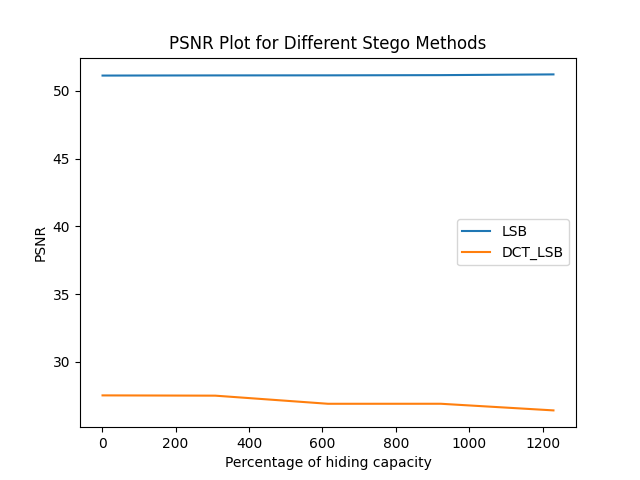
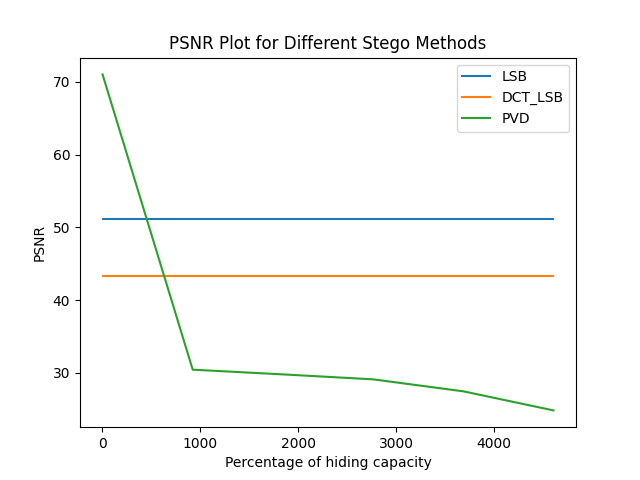
new images and somewhat working pvd

diff --git a/pvd.py b/pvd.py
@@ -7,43 +7,46 @@ from typing import Tuple, Union
 
 DctArray = npt.NDArray[np.int32]
 
+
 def _hide_pvd(cover_img: Union[ImageArray, DctArray], data: bytes, key: int) -> ImageArray:
     # let key = threshold
     # cover_img is not greyscale
 
     # TODO Fix issue with ending of message
-    data += b'EOM:' 
     if len(cover_img.shape) != 3:
         raise ValueError("cover_img must be an array of rgb")
     
     threshold = key
     secret_bits = _bytes_to_bitarray(data)
+    assert secret_bits.shape[0] == len(data)*8
     start = 0
 
-    stego_img = np.zeros(cover_img.shape)
+    stego_img = np.zeros(cover_img.shape, dtype = np.uint8)
 
     for r in range(cover_img.shape[0]):
         for c in range(cover_img.shape[1]):
-            rg_pair = cover_img[r, c, :2]
-            gb_pair = cover_img[r, c, 1:]
+            rg_pair = cover_img[r, c, :2].astype(np.float64)
+            gb_pair = cover_img[r, c, 1:].astype(np.float64)
 
-            t1 = abs(float(rg_pair[0]) - float(rg_pair[1]))
-            t2 = abs(float(gb_pair[0]) - float(gb_pair[1]))
-
+            t1 = abs(rg_pair[0] - rg_pair[1])
+            t2 = abs(gb_pair[0] - gb_pair[1])
             if t1 + t2 < threshold and start < len(secret_bits):
+                prev_start = start
                 rg_pair_new, start = _pvd_encrypt(rg_pair, secret_bits, start)
                 gb_pair_new = gb_pair
                 if start < len(secret_bits):
                     gb_pair_new, start = _pvd_encrypt(gb_pair, secret_bits, start)
-
-                g_new = round((rg_pair_new[1] + gb_pair_new[0])/2.0)
+                
+                g_new = 1.0*round((rg_pair_new[1] + gb_pair_new[0])/2.0)
                 r_new = rg_pair_new[0] - (rg_pair_new[1] - g_new)
                 b_new = gb_pair_new[1] - (gb_pair_new[0] - g_new)
-                stego_img[r, c, :] = np.array([r_new, g_new, b_new])
 
+                # check to see if at above threshold or pixels out of bound, re-embed
+                if abs(r_new - g_new) + abs(g_new - b_new) >= threshold or r_new < 0 or r_new > 255 or g_new < 0 or g_new > 255 or b_new < 0 or b_new > 255:
+                    start = prev_start
+                stego_img[r, c, :] = np.array([r_new, g_new, b_new], dtype = np.uint8)
             else:
                 stego_img[r, c, :] = cover_img[r, c, :]
-    
     return stego_img
 
 def _recover_pvd(stego_img: Union[ImageArray, DctArray], key: int) -> bytes:
@@ -52,6 +55,7 @@ def _recover_pvd(stego_img: Union[ImageArray, DctArray], key: int) -> bytes:
     
     threshold = key
     secret_bits = np.array([], dtype = np.uint8)
+    rc_pairs = []
     for r in range(stego_img.shape[0]):
         for c in range(stego_img.shape[1]):
             rgb_stego = stego_img[r, c, :]
@@ -63,11 +67,10 @@ def _recover_pvd(stego_img: Union[ImageArray, DctArray], key: int) -> bytes:
                 extract_secret_bits = np.concatenate((_pvd_decrypt(rgb_stego[:2]), _pvd_decrypt(rgb_stego[1:])))
                 secret_bits = np.concatenate((secret_bits, extract_secret_bits))
 
-    secret_bytes = _bitarray_to_bytes(secret_bits)
-    end_idx = secret_bytes.rindex(b'EOM')
-    
+                rc_pairs.append((r, c))
 
-    return secret_bytes[:end_idx]
+    secret_bytes = _bitarray_to_bytes(secret_bits)
+    return secret_bytes
 
 ### HELPER FUNCTIONS
 
@@ -86,7 +89,8 @@ def _pvd_decrypt(block: cv2.Mat) -> npt.NDArray[np.uint8]:
     # TODO: this almost works except near the end where the bits don't fill capacity
     d_new = int(abs(float(block[0]) - float(block[1])))
     lower, upper = _pvd_get_range(d_new)
-    t = math.ceil(math.log2(upper - lower + 1)) # number of bits can store
+
+    t = math.floor(math.log2(upper - lower + 1)) # number of bits can store
     extract_secret = [int(char) for char in bin(d_new - lower)[2:]]
     
     return np.array( [0] * (t - len(extract_secret)) + extract_secret , dtype = np.uint8)
@@ -100,9 +104,9 @@ def _pvd_encrypt(block: cv2.Mat, secret_bits: npt.NDArray[np.uint8], start: int)
 
     An RGB colour imagesteganography scheme using overlapping block-based pixel-value differencing
     """
-    d_old = abs(float(block[0]) - float(block[1]))
+    d_old = abs(block[0] - block[1])
     lower, upper = _pvd_get_range(d_old)
-    t = math.ceil(math.log2(upper - lower + 1)) # number of bits can store
+    t = math.floor(math.log2(upper - lower + 1)) # number of bits can store
 
     bit_array = np.zeros((8,), dtype = np.uint8)
     num_bits_left = min(t, len(secret_bits) - start)
@@ -111,6 +115,7 @@ def _pvd_encrypt(block: cv2.Mat, secret_bits: npt.NDArray[np.uint8], start: int)
     
     bit_array[-num_bits_left:] = secret_bits[start:start+num_bits_left]
     secret_to_hide = np.packbits(bit_array)[0]
+    
 
     d_new = lower + secret_to_hide
     m = d_new - d_old
@@ -146,13 +151,21 @@ def _bytes_to_bitarray(data: bytes) -> npt.NDArray[np.uint8]:
 
 if __name__ == "__main__":
 
-    cover_img = Image.from_file('images/testimage1_128x96.jpg').array
-    secret_text = None
-    with open('secret.txt', 'rb') as f:
-        secret_text = f.read()
+    cover_img = Image.from_file('images/mit_1024x768.jpg').array
+    secret = Image.from_file('images/timthebeaver_128x96.jpg')
+    # with open('secret.txt', 'rb') as f:
+    #     secret = f.read()
     
-    secret_text = secret_text[:100]
-    encrypt = _hide_pvd(cover_img, secret_text, 1000)
-    cv2.imwrite("pvd.png", encrypt)
-    decrypt = _recover_pvd(encrypt, 1000)
-    print(decrypt)
+    secret_bytes = secret.to_bytes() if not type(secret) == bytes else secret
+    encrypt = _hide_pvd(cover_img, secret_bytes, 60)
+    encrypt_img = Image(encrypt)
+    encrypt_img.save('output/mit_stego_PVD.jpg')
+    decrypt = _recover_pvd(encrypt, 60)
+
+
+    recovered_img = Image.from_bytes(decrypt[:len(secret_bytes)], secret.shape)
+    # recovered_img.show()
+    recovered_img.save('output/timthebeaver_recovered_mit_PVD.jpg')
+    
+    
+

diff --git a/plot_metrics.py b/plot_metrics.py
@@ -17,25 +17,29 @@ def plot_psnr_graph(cover_img: cv2.Mat, full_secret: bytes, file_to_save: str, h
     """ 
 
     # assume using grayscale for now
-    if len(cover_img.shape) == 3:
-        cover_img = cover_img[:, :, 0]
 
     size = np.prod(cover_img.shape)//8
     perc_increment = hidden_capacity_perc
-    stego_modes = [stego.Mode.LSB, stego.Mode.DCT_LSB]
+    stego_modes = [stego.Mode.LSB, stego.Mode.DCT_LSB, stego.Mode.PVD]
     mode_to_psnr = {stego_method:[] for stego_method in stego_modes}
     x = []
-
     
-    for hidden_capacity in range(1, size, size//perc_increment):
+    # for pvd
+    int_key = 1000
+    key = int_key.to_bytes(2, 'big')
+    
+    for hidden_capacity in range(50, size, size//perc_increment):
         for stego_method in mode_to_psnr:
             secret = full_secret[:hidden_capacity]
-            stego_img = stego.hide(Image(cover_img), secret, mode=stego_method).array if hidden_capacity > 0 else cover_img
+            stego_img = stego.hide(Image(cover_img), secret, mode=stego_method, key=key) if hidden_capacity > 0 else cover_img
 
-            cv2.imwrite(f"{stego_method.name}_{hidden_capacity/size * 100}.png", stego_img)
+            cv2.imwrite(f"{stego_method.name}_{round(hidden_capacity/size * 100)}.png", stego_img.array)
 
-            mode_to_psnr[stego_method].append(metriclib.get_psnr(cover_img, stego_img))
-        x.append(hidden_capacity)
+            print(len(secret))
+            if stego_method == stego.Mode.PVD:
+                print(stego.recover(stego_img, stego_method, key=key))
+            mode_to_psnr[stego_method].append(metriclib.get_psnr(cover_img, stego_img.array))
+        x.append(hidden_capacity/size*100)
 
     # plotting
     fig, ax = plt.subplots()
@@ -104,8 +108,16 @@ if __name__ == "__main__":
     with open('secret.txt', 'rb') as f:
         secret_text = f.read()
     
+    img_types = ['charlesriver', 'mit', 'testimage1']
+    modes = [stego.Mode.LSB, stego.Mode.DCT_LSB, stego.Mode.PVD]
 
-    plot_rs_graph(cover_img.array, secret_text, 'rs_plot_LSB.png', stego_method=stego.Mode.LSB)
-    plot_rs_graph(cover_img.array, secret_text, 'rs_plot_orig.png')
-    plot_rs_graph(cover_img.array, secret_text, 'rs_plot_DCT_LSB.png', stego_method=stego.Mode.DCT_LSB)
-    plot_psnr_graph(cover_img.array, secret_text, 'psnr_plot.png')
+    for img_type in img_types:
+        for mode in modes:
+            stego_img_array = Image.from_file(f"output/{img_type}_stego_{mode.name}.jpg").array
+            cover_img_array = Image.from_file(f"images/{img_type}_512x384.jpg").array
+
+            print(f"PSNR for {img_type} in mode {mode.name} = {metriclib.get_psnr(cover_img_array, stego_img_array)}")
+    # plot_rs_graph(cover_img.array, secret_text, 'rs_plot_LSB.png', stego_method=stego.Mode.LSB)
+    # plot_rs_graph(cover_img.array, secret_text, 'rs_plot_orig.png')
+    # # plot_rs_graph(cover_img.array, secret_text, 'rs_plot_DCT_LSB.png', stego_method=stego.Mode.DCT_LSB)
+    # plot_psnr_graph(cover_img.array, secret_text, 'psnr_plot.png')

diff --git a/steganography.py b/steganography.py
@@ -2,6 +2,7 @@ import numpy as np
 import numpy.typing as npt
 import util
 import lsb
+import pvd
 from dct import dct, idct
 from enum import Enum, auto
 from image import Image, ImageArray
@@ -12,6 +13,7 @@ class Mode(Enum):
     LSB = auto()
     DCT_LSB = auto()
     DCT_ADD = auto()
+    PVD = auto()
 
 
 ### PUBLIC API
@@ -36,6 +38,8 @@ def hide(cover_img: Image, data: bytes, mode: Mode, key: bytes = None) -> Image:
         return _hide_dct_lsb(cover_img, data, key)
     elif mode == Mode.DCT_ADD and key:
         return _hide_dct_add(cover_img, data, key)
+    elif mode == Mode.PVD and key:
+        return _hide_pvd(cover_img, data, key)
     else:
         raise ValueError('The given combination of mode and key is not supported')
 
@@ -57,11 +61,21 @@ def recover(stego_img: Image, mode: Mode, key: bytes = None) -> bytes:
         return _recover_dct_lsb(stego_img, key)
     elif mode == Mode.DCT_ADD and key:
         return _recover_dct_add(stego_img, key)
+    elif mode == Mode.PVD and key:
+        return _recover_pvd(stego_img, key)
     else:
         raise ValueError('The given combination of mode and key is not supported')
 
 
 ### IMPLEMENTATION FUNCTIONS
+
+def _hide_pvd(cover_img: Image, data: bytes, key: bytes) -> Image:
+    print(int.from_bytes(key, "big"))
+    return Image(pvd._hide_pvd(cover_img.array, data, int.from_bytes(key, "big")))
+
+def _recover_pvd(stego_img: Image, key: bytes) -> bytes:
+    print(int.from_bytes(key, "big"))
+    return pvd._recover_pvd(stego_img.array, int.from_bytes(key, "big"))
 
 def _hide_lsb(cover_img: Image, data: bytes, key: bytes) -> Image:
     return Image(lsb.embed(cover_img.array, data, key))

diff --git a/main.py b/main.py
@@ -5,7 +5,7 @@ import steganography as stego
 if __name__ == '__main__':
     cover_img = Image.from_file('images/mit_512x384.jpg')
     hidden_img = Image.from_file('images/mit_64x48.jpg')
-    message = b'I hate crypto'
+    message = b'I love crypto'
 
     # (1) Hide text message inside cover image using LSB
     stego_img = stego.hide(cover_img, message, mode=stego.Mode.LSB)
@@ -21,6 +21,7 @@ if __name__ == '__main__':
 
     recovered_img = Image.from_bytes(truncated_recovered_data, hidden_img.shape)
     # recovered_img.show()
+    recovered_img.save('output/mit_recovered_lsb.jpg')
 
     # (3) Hide an (unencrypted) image inside cover image using DCT
     stego_img = stego.hide(cover_img, hidden_img.to_bytes(), mode=stego.Mode.DCT_LSB)
@@ -33,3 +34,9 @@ if __name__ == '__main__':
     recovered_img = Image.from_bytes(truncated_recovered_data, hidden_img.shape)
     # recovered_img.show()
     recovered_img.save('output/mit_recovered_dct.jpg')
+
+    # (4) Hide an (unencrypted) image inside cover image using PVD
+    # truncated_recovered_data = recovered_data[:len(hidden_img_smaller.to_bytes())]
+    # recovered_img = Image.from_bytes(truncated_recovered_data, hidden_img_smaller.shape)
+    # # recovered_img.show()
+    # recovered_img.save('output/mit_recovered_dct.jpg')

diff --git a/util.py b/util.py
@@ -1,6 +1,6 @@
 import numpy as np
 import numpy.typing as npt
-from typing import TypeVar
+from typing import TypeVar, List
 
 T = TypeVar('T', bound=np.integer)
 BitArray = npt.NDArray[np.uint8]
@@ -15,9 +15,9 @@ def bitarray_to_bytes(bitarray: BitArray) -> bytes:
     bitstring = ''.join(bitarray.astype(str))
     return bytes([int(bitstring[8*i : 8*(i+1)], 2) for i in range(len(bitstring) // 8)])
 
-def separate_channels(array: IntArray) -> list[IntArray]:
+def separate_channels(array: IntArray) -> List[IntArray]:
     assert len(array.shape) == 3
     return [array[..., i] for i in range(array.shape[2])]
 
-def combine_channels(channels: list[IntArray]) -> IntArray:
+def combine_channels(channels: List[IntArray]) -> IntArray:
     return np.stack(channels, axis=2)
